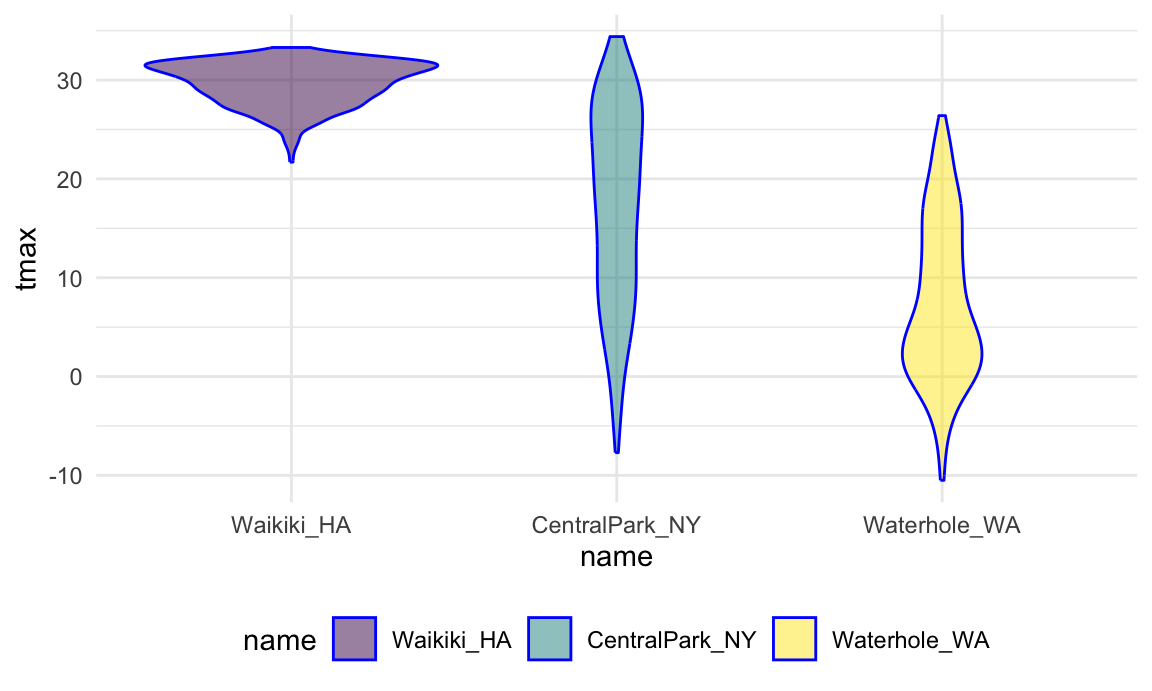
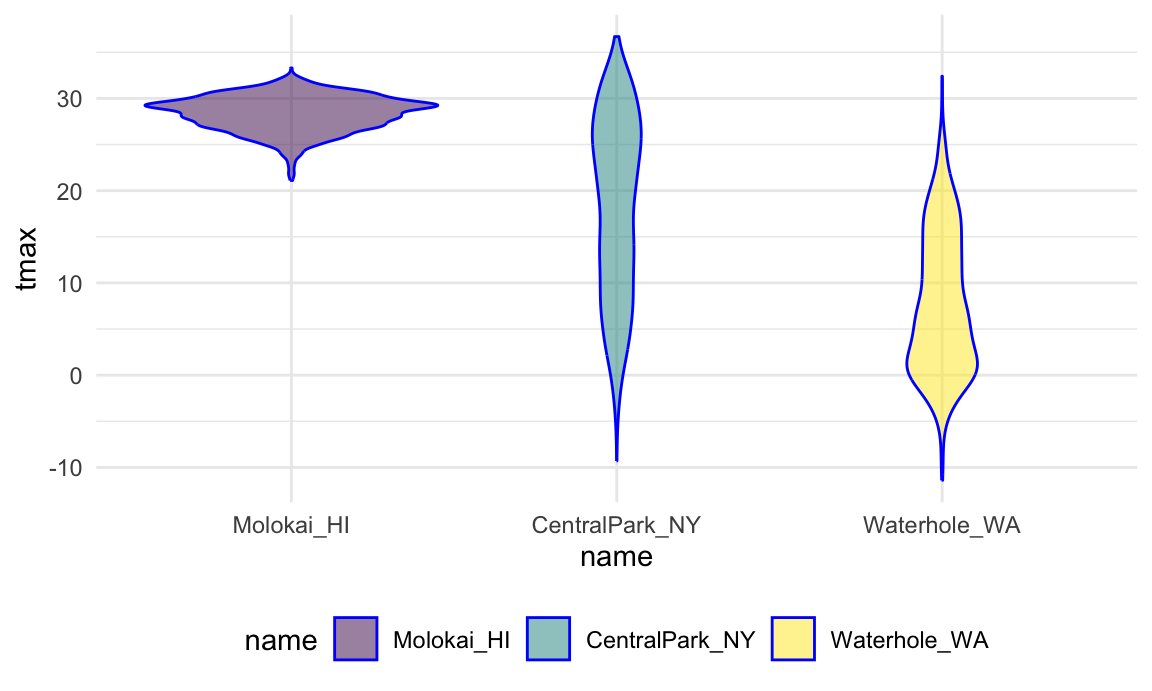
pre-lecture updates

diff --git a/strings_and_factors.html b/strings_and_factors.html
@@ -529,13 +529,13 @@ str_detect(string_vec, &quot;^i think&quot;)</code></pre>
 <p>You can designate a list of characters that will count as a
 match.</p>
 <pre class="r"><code>string_vec = c(
-  &quot;Y&#39;all remember Pres. HW Bush?&quot;,
-  &quot;I saw a green bush&quot;,
-  &quot;BBQ and Bushwalking at Molonglo Gorge&quot;,
-  &quot;BUSH -- LIVE IN CONCERT!!&quot;
+  &quot;Time for a Pumpkin Spice Latte!&quot;,
+  &quot;went to the #pumpkinpatch last weekend&quot;,
+  &quot;Pumpkin Pie is obviously the best pie&quot;,
+  &quot;SMASHING PUMPKINS -- LIVE IN CONCERT!!&quot;
   )
 
-str_detect(string_vec,&quot;[Bb]ush&quot;)</code></pre>
+str_detect(string_vec,&quot;[Pp]umpkin&quot;)</code></pre>
 <pre><code>## [1]  TRUE  TRUE  TRUE FALSE</code></pre>
 <p>You don’t have to list these; instead, you can provide a range of
 letters or numbers that count as a match.</p>
@@ -633,9 +633,9 @@ wasn’t tidy.</p>
 <pre class="r"><code>nsduh_url = &quot;http://samhda.s3-us-gov-west-1.amazonaws.com/s3fs-public/field-uploads/2k15StateFiles/NSDUHsaeShortTermCHG2015.htm&quot;
 
 table_marj = 
-  read_html(nsduh_url) %&gt;% 
-  html_table() %&gt;% 
-  first() %&gt;%
+  read_html(nsduh_url) |&gt; 
+  html_table() |&gt; 
+  first() |&gt;
   slice(-1)</code></pre>
 <p>There are a few steps we need to implement to tidy these data. For
 now I’m not interested in the p-values (I’d rather just see the data);
@@ -644,17 +644,17 @@ are, in fact, variables. Lastly, the table includes letters as
 superscripts next to table entries; if we only want the percents we’ll
 need to strip these out.</p>
 <pre class="r"><code>data_marj = 
-  table_marj %&gt;%
-  select(-contains(&quot;P Value&quot;)) %&gt;%
+  table_marj |&gt;
+  select(-contains(&quot;P Value&quot;)) |&gt;
   pivot_longer(
     -State,
     names_to = &quot;age_year&quot;, 
-    values_to = &quot;percent&quot;) %&gt;%
-  separate(age_year, into = c(&quot;age&quot;, &quot;year&quot;), sep = &quot;\\(&quot;) %&gt;%
+    values_to = &quot;percent&quot;) |&gt;
+  separate(age_year, into = c(&quot;age&quot;, &quot;year&quot;), sep = &quot;\\(&quot;) |&gt;
   mutate(
     year = str_replace(year, &quot;\\)&quot;, &quot;&quot;),
     percent = str_replace(percent, &quot;[a-c]$&quot;, &quot;&quot;),
-    percent = as.numeric(percent)) %&gt;%
+    percent = as.numeric(percent)) |&gt;
   filter(!(State %in% c(&quot;Total U.S.&quot;, &quot;Northeast&quot;, &quot;Midwest&quot;, &quot;South&quot;, &quot;West&quot;)))</code></pre>
 <p>We used <code>stringr</code> and regular expressions a couple of
 times above:</p>
@@ -668,9 +668,9 @@ parentheses using <code>"\\("</code></li>
 <p>Let’s quickly visualize these data for the 12-17 age group; to make
 the plot readable, we’ll treat <code>State</code> as a factor are
 reorder according to the median <code>percent</code> value.</p>
-<pre class="r"><code>data_marj %&gt;%
-  filter(age == &quot;12-17&quot;) %&gt;% 
-  mutate(State = fct_reorder(State, percent)) %&gt;% 
+<pre class="r"><code>data_marj |&gt;
+  filter(age == &quot;12-17&quot;) |&gt; 
+  mutate(State = fct_reorder(State, percent)) |&gt; 
   ggplot(aes(x = State, y = percent, color = year)) + 
     geom_point() + 
     theme(axis.text.x = element_text(angle = 90, hjust = 1))</code></pre>
@@ -686,9 +686,9 @@ Data API; code is available with the data description.</p>
 <p>First we’ll import the data and take a look.</p>
 <pre class="r"><code>data(&quot;rest_inspec&quot;)
 
-rest_inspec %&gt;% 
-  group_by(boro, grade) %&gt;% 
-  summarize(n = n()) %&gt;% 
+rest_inspec |&gt; 
+  group_by(boro, grade) |&gt; 
+  summarize(n = n()) |&gt; 
   pivot_wider(names_from = grade, values_from = n)</code></pre>
 <pre><code>## `summarise()` has grouped output by &#39;boro&#39;. You can override using the
 ## `.groups` argument.</code></pre>
@@ -707,15 +707,15 @@ rest_inspec %&gt;%
 restaurants with missing boro information. I’ll also clean up boro names
 a bit.</p>
 <pre class="r"><code>rest_inspec =
-  rest_inspec %&gt;%
-  filter(grade %in% c(&quot;A&quot;, &quot;B&quot;, &quot;C&quot;), boro != &quot;Missing&quot;) %&gt;% 
+  rest_inspec |&gt;
+  filter(grade %in% c(&quot;A&quot;, &quot;B&quot;, &quot;C&quot;), boro != &quot;Missing&quot;) |&gt; 
   mutate(boro = str_to_title(boro))</code></pre>
 <p>Let’s focus only on pizza places for now, and re-examine grades by
 borough.</p>
-<pre class="r"><code>rest_inspec %&gt;% 
-  filter(str_detect(dba, &quot;Pizza&quot;)) %&gt;% 
-  group_by(boro, grade) %&gt;% 
-  summarize(n = n()) %&gt;% 
+<pre class="r"><code>rest_inspec |&gt; 
+  filter(str_detect(dba, &quot;Pizza&quot;)) |&gt; 
+  group_by(boro, grade) |&gt; 
+  summarize(n = n()) |&gt; 
   pivot_wider(names_from = grade, values_from = n)</code></pre>
 <pre><code>## `summarise()` has grouped output by &#39;boro&#39;. You can override using the
 ## `.groups` argument.</code></pre>
@@ -731,10 +731,10 @@ borough.</p>
 <p>That doesn’t look right – for sure there are more pizza place ratings
 than that! The problem is that the match in <code>str_detect</code> is
 case-sensitive until we tell it not to be:</p>
-<pre class="r"><code>rest_inspec %&gt;% 
-  filter(str_detect(dba, &quot;[Pp][Ii][Zz][Zz][Aa]&quot;)) %&gt;% 
-  group_by(boro, grade) %&gt;% 
-  summarize(n = n()) %&gt;% 
+<pre class="r"><code>rest_inspec |&gt; 
+  filter(str_detect(dba, &quot;[Pp][Ii][Zz][Zz][Aa]&quot;)) |&gt; 
+  group_by(boro, grade) |&gt; 
+  summarize(n = n()) |&gt; 
   pivot_wider(names_from = grade, values_from = n)</code></pre>
 <pre><code>## `summarise()` has grouped output by &#39;boro&#39;. You can override using the
 ## `.groups` argument.</code></pre>
@@ -748,27 +748,27 @@ case-sensitive until we tell it not to be:</p>
 ## 4 Queens         1647   259    48
 ## 5 Staten Island   323   127    21</code></pre>
 <p>The table is okay but I’d like to visualize this.</p>
-<pre class="r"><code>rest_inspec %&gt;% 
-  filter(str_detect(dba, &quot;[Pp][Ii][Zz][Zz][Aa]&quot;)) %&gt;%
+<pre class="r"><code>rest_inspec |&gt; 
+  filter(str_detect(dba, &quot;[Pp][Ii][Zz][Zz][Aa]&quot;)) |&gt;
   ggplot(aes(x = boro, fill = grade)) + 
   geom_bar() </code></pre>
 <p><img src="strings_and_factors_files/figure-html/unnamed-chunk-17-1.png" width="90%" /></p>
 <p>Might help to have things in a different order – maybe number of
 pizza places? Fortunately this can be done using
 <code>fct_infreq</code>.</p>
-<pre class="r"><code>rest_inspec %&gt;% 
-  filter(str_detect(dba, &quot;[Pp][Ii][Zz][Zz][Aa]&quot;)) %&gt;%
-  mutate(boro = fct_infreq(boro)) %&gt;%
+<pre class="r"><code>rest_inspec |&gt; 
+  filter(str_detect(dba, &quot;[Pp][Ii][Zz][Zz][Aa]&quot;)) |&gt;
+  mutate(boro = fct_infreq(boro)) |&gt;
   ggplot(aes(x = boro, fill = grade)) + 
   geom_bar() </code></pre>
 <p><img src="strings_and_factors_files/figure-html/unnamed-chunk-18-1.png" width="90%" /></p>
 <p>Suppose I want to rename a borough. I could try using
 <code>str_replace</code>.</p>
-<pre class="r"><code>rest_inspec %&gt;% 
-  filter(str_detect(dba, &quot;[Pp][Ii][Zz][Zz][Aa]&quot;)) %&gt;%
+<pre class="r"><code>rest_inspec |&gt; 
+  filter(str_detect(dba, &quot;[Pp][Ii][Zz][Zz][Aa]&quot;)) |&gt;
   mutate(
     boro = fct_infreq(boro),
-    boro = str_replace(boro, &quot;Manhattan&quot;, &quot;The City&quot;)) %&gt;%
+    boro = str_replace(boro, &quot;Manhattan&quot;, &quot;The City&quot;)) |&gt;
   ggplot(aes(x = boro, fill = grade)) + 
   geom_bar() </code></pre>
 <p><img src="strings_and_factors_files/figure-html/unnamed-chunk-19-1.png" width="90%" /></p>
@@ -778,11 +778,11 @@ alphabetically. I could switch the order in which I rename and encode
 the factor order I want, but that might not always work.</p>
 <p>If I tried base R (maybe because I found some code online), I might
 try to do this using <code>replace</code>.</p>
-<pre class="r"><code>rest_inspec %&gt;% 
-  filter(str_detect(dba, &quot;[Pp][Ii][Zz][Zz][Aa]&quot;)) %&gt;%
+<pre class="r"><code>rest_inspec |&gt; 
+  filter(str_detect(dba, &quot;[Pp][Ii][Zz][Zz][Aa]&quot;)) |&gt;
   mutate(
     boro = fct_infreq(boro),
-    boro = replace(boro, which(boro == &quot;Manhattan&quot;), &quot;The City&quot;)) %&gt;%
+    boro = replace(boro, which(boro == &quot;Manhattan&quot;), &quot;The City&quot;)) |&gt;
   ggplot(aes(x = boro, fill = grade)) + 
   geom_bar()</code></pre>
 <pre><code>## Warning: There was 1 warning in `mutate()`.
@@ -794,11 +794,11 @@ try to do this using <code>replace</code>.</p>
 use a value that is not an existing factor level won’t work.</p>
 <p>Fortunately there is a dedicated function for renaming factor
 levels:</p>
-<pre class="r"><code>rest_inspec %&gt;% 
-  filter(str_detect(dba, regex(&quot;pizza&quot;, ignore_case = TRUE))) %&gt;%
+<pre class="r"><code>rest_inspec |&gt; 
+  filter(str_detect(dba, regex(&quot;pizza&quot;, ignore_case = TRUE))) |&gt;
   mutate(
     boro = fct_infreq(boro),
-    boro = fct_recode(boro, &quot;The City&quot; = &quot;Manhattan&quot;)) %&gt;%
+    boro = fct_recode(boro, &quot;The City&quot; = &quot;Manhattan&quot;)) |&gt;
   ggplot(aes(x = boro, fill = grade)) + 
   geom_bar()</code></pre>
 <p><img src="strings_and_factors_files/figure-html/unnamed-chunk-21-1.png" width="90%" /></p>
@@ -814,44 +814,50 @@ examples now.</p>
 <p>Our first step is to load the data we used.</p>
 <pre class="r"><code>weather_df = 
   rnoaa::meteo_pull_monitors(
-    c(&quot;USW00094728&quot;, &quot;USC00519397&quot;, &quot;USS0023B17S&quot;),
+    c(&quot;USW00094728&quot;, &quot;USW00022534&quot;, &quot;USS0023B17S&quot;),
     var = c(&quot;PRCP&quot;, &quot;TMIN&quot;, &quot;TMAX&quot;), 
-    date_min = &quot;2017-01-01&quot;,
-    date_max = &quot;2017-12-31&quot;) %&gt;%
+    date_min = &quot;2021-01-01&quot;,
+    date_max = &quot;2023-12-31&quot;) |&gt;
   mutate(
     name = recode(
       id, 
       USW00094728 = &quot;CentralPark_NY&quot;, 
-      USC00519397 = &quot;Waikiki_HA&quot;,
+      USW00022534 = &quot;Molokai_HI&quot;,
       USS0023B17S = &quot;Waterhole_WA&quot;),
     tmin = tmin / 10,
-    tmax = tmax / 10) %&gt;%
+    tmax = tmax / 10) |&gt;
   select(name, id, everything())</code></pre>
 <pre><code>## Registered S3 method overwritten by &#39;hoardr&#39;:
 ##   method           from
 ##   print.cache_info httr</code></pre>
+<pre><code>## using cached file: /Users/jeffgoldsmith/Library/Caches/org.R-project.R/R/rnoaa/noaa_ghcnd/USW00094728.dly</code></pre>
+<pre><code>## date created (size, mb): 2023-09-28 10:20:04.003054 (8.524)</code></pre>
 <pre><code>## file min/max dates: 1869-01-01 / 2023-09-30</code></pre>
-<pre><code>## file min/max dates: 1965-01-01 / 2023-09-30</code></pre>
+<pre><code>## using cached file: /Users/jeffgoldsmith/Library/Caches/org.R-project.R/R/rnoaa/noaa_ghcnd/USW00022534.dly</code></pre>
+<pre><code>## date created (size, mb): 2023-09-28 10:20:09.885503 (3.83)</code></pre>
+<pre><code>## file min/max dates: 1949-10-01 / 2023-09-30</code></pre>
+<pre><code>## using cached file: /Users/jeffgoldsmith/Library/Caches/org.R-project.R/R/rnoaa/noaa_ghcnd/USS0023B17S.dly</code></pre>
+<pre><code>## date created (size, mb): 2023-09-28 10:20:11.8066 (0.994)</code></pre>
 <pre><code>## file min/max dates: 1999-09-01 / 2023-09-30</code></pre>
 <pre class="r"><code>weather_df</code></pre>
-<pre><code>## # A tibble: 1,095 × 6
+<pre><code>## # A tibble: 3,009 × 6
 ##    name           id          date        prcp  tmax  tmin
 ##    &lt;chr&gt;          &lt;chr&gt;       &lt;date&gt;     &lt;dbl&gt; &lt;dbl&gt; &lt;dbl&gt;
-##  1 CentralPark_NY USW00094728 2017-01-01     0   8.9   4.4
-##  2 CentralPark_NY USW00094728 2017-01-02    53   5     2.8
-##  3 CentralPark_NY USW00094728 2017-01-03   147   6.1   3.9
-##  4 CentralPark_NY USW00094728 2017-01-04     0  11.1   1.1
-##  5 CentralPark_NY USW00094728 2017-01-05     0   1.1  -2.7
-##  6 CentralPark_NY USW00094728 2017-01-06    13   0.6  -3.8
-##  7 CentralPark_NY USW00094728 2017-01-07    81  -3.2  -6.6
-##  8 CentralPark_NY USW00094728 2017-01-08     0  -3.8  -8.8
-##  9 CentralPark_NY USW00094728 2017-01-09     0  -4.9  -9.9
-## 10 CentralPark_NY USW00094728 2017-01-10     0   7.8  -6  
-## # ℹ 1,085 more rows</code></pre>
+##  1 CentralPark_NY USW00094728 2021-01-01   157   4.4   0.6
+##  2 CentralPark_NY USW00094728 2021-01-02    13  10.6   2.2
+##  3 CentralPark_NY USW00094728 2021-01-03    56   3.3   1.1
+##  4 CentralPark_NY USW00094728 2021-01-04     5   6.1   1.7
+##  5 CentralPark_NY USW00094728 2021-01-05     0   5.6   2.2
+##  6 CentralPark_NY USW00094728 2021-01-06     0   5     1.1
+##  7 CentralPark_NY USW00094728 2021-01-07     0   5    -1  
+##  8 CentralPark_NY USW00094728 2021-01-08     0   2.8  -2.7
+##  9 CentralPark_NY USW00094728 2021-01-09     0   2.8  -4.3
+## 10 CentralPark_NY USW00094728 2021-01-10     0   5    -1.6
+## # ℹ 2,999 more rows</code></pre>
 <p>Our first example reordered <code>name</code> “by hand” using
 <code>fct_relevel</code>:</p>
-<pre class="r"><code>weather_df %&gt;%
-  mutate(name = forcats::fct_relevel(name, c(&quot;Waikiki_HA&quot;, &quot;CentralPark_NY&quot;, &quot;Waterhole_WA&quot;))) %&gt;% 
+<pre class="r"><code>weather_df |&gt;
+  mutate(name = forcats::fct_relevel(name, c(&quot;Molokai_HI&quot;, &quot;CentralPark_NY&quot;, &quot;Waterhole_WA&quot;))) |&gt; 
   ggplot(aes(x = name, y = tmax)) + 
   geom_violin(aes(fill = name), color = &quot;blue&quot;, alpha = .5) + 
   theme(legend.position = &quot;bottom&quot;)</code></pre>
@@ -859,8 +865,8 @@ examples now.</p>
 <p>We could instead reorder <code>name</code> according to
 <code>tmax</code> values in each name using
 <code>fct_reorder</code>:</p>
-<pre class="r"><code>weather_df %&gt;%
-  mutate(name = forcats::fct_reorder(name, tmax)) %&gt;% 
+<pre class="r"><code>weather_df |&gt;
+  mutate(name = forcats::fct_reorder(name, tmax)) |&gt; 
   ggplot(aes(x = name, y = tmax)) + 
   geom_violin(aes(fill = name), color = &quot;blue&quot;, alpha = .5) + 
   theme(legend.position = &quot;bottom&quot;)</code></pre>
@@ -869,27 +875,28 @@ examples now.</p>
 ordering of factor variables play an important in this case as well.
 Specifically, the ordering determines the “reference” category, and is
 something that can be adjusted as needed.</p>
-<pre class="r"><code>weather_df %&gt;%
-  lm(tmax ~ name, data = .)</code></pre>
+<pre class="r"><code>weather_df |&gt;
+  lm(tmax ~ name, data = _)</code></pre>
 <pre><code>## 
 ## Call:
-## lm(formula = tmax ~ name, data = .)
+## lm(formula = tmax ~ name, data = weather_df)
 ## 
 ## Coefficients:
-##      (Intercept)    nameWaikiki_HA  nameWaterhole_WA  
-##           17.366            12.291            -9.884</code></pre>
-<pre class="r"><code>weather_df %&gt;%
-  mutate(name = forcats::fct_relevel(name, c(&quot;Waikiki_HA&quot;, &quot;CentralPark_NY&quot;, &quot;Waterhole_WA&quot;))) %&gt;% 
-  lm(tmax ~ name, data = .)</code></pre>
+##      (Intercept)    nameMolokai_HI  nameWaterhole_WA  
+##            18.26             10.11            -10.51</code></pre>
+<pre class="r"><code>weather_df |&gt;
+  mutate(name = forcats::fct_relevel(name, c(&quot;Molokai_HI&quot;, &quot;CentralPark_NY&quot;, &quot;Waterhole_WA&quot;))) |&gt; 
+  lm(tmax ~ name, data = _)</code></pre>
 <pre><code>## 
 ## Call:
-## lm(formula = tmax ~ name, data = .)
+## lm(formula = tmax ~ name, data = mutate(weather_df, name = forcats::fct_relevel(name, 
+##     c(&quot;Molokai_HI&quot;, &quot;CentralPark_NY&quot;, &quot;Waterhole_WA&quot;))))
 ## 
 ## Coefficients:
 ##        (Intercept)  nameCentralPark_NY    nameWaterhole_WA  
-##              29.66              -12.29              -22.18</code></pre>
-<p>In this example, we’re also using a feature of <code>%&gt;%</code>
-that allows us to specify where the tibble goes: <code>.</code> is a
+##              28.37              -10.11              -20.63</code></pre>
+<p>In this example, we’re also using a feature of <code>|&gt;</code>
+that allows us to specify where the tibble goes: <code>_</code> is a
 placeholder for the result of the preceding call.</p>
 </div>
 <div id="pulse-data" class="section level3">
@@ -904,17 +911,17 @@ data using <code>stringr</code> and <code>forcats</code>. The result is
 the same, and the differences are pretty small, but this is a bit
 cleaner.</p>
 <pre class="r"><code>pulse_data = 
-  haven::read_sas(&quot;./data/public_pulse_data.sas7bdat&quot;) %&gt;%
-  janitor::clean_names() %&gt;%
+  haven::read_sas(&quot;./data/public_pulse_data.sas7bdat&quot;) |&gt;
+  janitor::clean_names() |&gt;
   pivot_longer(
     bdi_score_bl:bdi_score_12m,
     names_to = &quot;visit&quot;, 
     names_prefix = &quot;bdi_score_&quot;,
-    values_to = &quot;bdi&quot;) %&gt;%
-  select(id, visit, everything()) %&gt;%
+    values_to = &quot;bdi&quot;) |&gt;
+  select(id, visit, everything()) |&gt;
   mutate(
     visit = str_replace(visit, &quot;bl&quot;, &quot;00m&quot;),
-    visit = factor(visit)) %&gt;%
+    visit = factor(visit)) |&gt;
   arrange(id, visit)
 
 print(pulse_data, n = 12)</code></pre>
@@ -944,10 +951,10 @@ according to the median price makes for clearer plots than ordering
 neighborhoods alphabetically.</p>
 <pre class="r"><code>data(&quot;nyc_airbnb&quot;)
 
-nyc_airbnb %&gt;%
-  filter(neighbourhood_group == &quot;Manhattan&quot;) %&gt;% 
+nyc_airbnb |&gt;
+  filter(neighbourhood_group == &quot;Manhattan&quot;) |&gt; 
   mutate(
-    neighbourhood = fct_reorder(neighbourhood, price)) %&gt;% 
+    neighbourhood = fct_reorder(neighbourhood, price)) |&gt; 
   ggplot(aes(x = neighbourhood, y = price)) +
   geom_boxplot() +
   coord_flip() + 
@@ -969,7 +976,7 @@ href="http://stat545.com/block029_factors.html">factors</a> as well</li>
 href="https://www.youtube.com/watch?v=15nNY7uofNw">real
 challenge</a></li>
 <li>Cheatsheet for <a
-href="https://github.com/rstudio/cheatsheets/raw/master/strings.pdf">stringr</a></li>
+href="https://github.com/rstudio/cheatsheets/blob/main/strings.pdf">stringr</a></li>
 </ul>
 <p>The code that I produced working examples in lecture is <a
 href="https://github.com/P8105/data_wrangling_ii">here</a>.</p>
